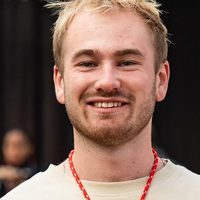
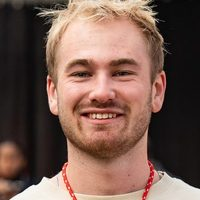
Fußballfeld: Julian und Malte laufen mit, Gesichter zentriert
Claude-Session: https://claude.ai/code/session_014cXxagMvA4XV5evzXXksD5

diff --git a/js/visuals.js b/js/visuals.js
@@ -1529,8 +1529,12 @@
 
     const lineX = w * 0.62;
     const defenders = [P(0.592, 0.2), P(0.62, 0.5), P(0.585, 0.8)];
-    const J = personal ? P(0.11, 0.62) : P(0.15, 0.66);   // Julian (bzw. Passgeber)
-    const M = P(0.35, 0.3);                                // Malte
+    // Laufwege: Julian und Malte laufen sich frei, spielen sich an und rücken
+    // nach dem Pass mit auf (0 = Start, 1 = beim Pass, 2 = danach)
+    const J0 = P(0.07, 0.72), J1 = P(0.13, 0.6), J2 = P(0.25, 0.55);
+    const M0 = P(0.26, 0.42), M1 = P(0.35, 0.3), M2 = P(0.47, 0.37);
+    const J = personal ? J1 : P(0.15, 0.66);   // Julian (bzw. Passgeber)
+    const M = M1;                              // Malte
     const passer = personal ? M : J;
     const A0 = P(0.74, 0.33);   // steht im Abseits
     const A1 = P(0.555, 0.36);  // zurück hinter der Linie
@@ -1660,8 +1664,12 @@
 
       // Spieler: Köpfe mit Namen, sonst ein Punkt
       if (personal) {
-        [J, M].forEach((pt, i) => {
-          const bob = Math.sin(t * 1.1 + i * 1.7) * 1.2;
+        const approach = easeInOut(clamp(u / 0.9, 0, 1));
+        const follow = easeInOut(clamp((u - passStart) / 1.6, 0, 1));
+        const walk = (a, b, c) => (follow > 0 ? [lerp(b[0], c[0], follow), lerp(b[1], c[1], follow)] : [lerp(a[0], b[0], approach), lerp(a[1], b[1], approach)]);
+        [walk(J0, J1, J2), walk(M0, M1, M2)].forEach((pt, i) => {
+          const moving = (approach > 0 && approach < 1) || (follow > 0 && follow < 1);
+          const bob = Math.sin(t * (moving ? 9 : 1.1) + i * 1.7) * (moving ? 2 : 1.2);
           roundPic(ctx, players[i], pt[0], pt[1] + bob, head, rgba(CREAM, 0.55));
           if (names[i]) {
             ctx.textAlign = 'center';

diff --git a/404.html b/404.html
@@ -29,7 +29,7 @@
   <meta property="og:site_name" content="onside.hq" />
   <meta name="twitter:card" content="summary_large_image" />
 
-  <link rel="stylesheet" href="/css/styles.css?v=11" />
+  <link rel="stylesheet" href="/css/styles.css?v=12" />
 
   <!-- Sicherheitsnetz: Texte blenden beim Scrollen ein. Sollte das Skript
        einmal nicht laden, zeigt diese Zeile nach 3 Sekunden trotzdem alles an. -->
@@ -152,8 +152,8 @@
        config.js  = die eine Stelle für eure Einstellungen (Formular-Key, Startbild-Fotos)
        visuals.js = alles, was gezeichnet und animiert wird
        script.js  = Bedienung: Einblenden, Menü, Laufband, Formular, Startbild, Regler -->
-  <script src="/js/config.js?v=11"></script>
-  <script src="/js/visuals.js?v=11"></script>
-  <script src="/js/script.js?v=11"></script>
+  <script src="/js/config.js?v=12"></script>
+  <script src="/js/visuals.js?v=12"></script>
+  <script src="/js/script.js?v=12"></script>
 </body>
 </html>

diff --git a/berlin-night-run.html b/berlin-night-run.html
@@ -29,7 +29,7 @@
   <meta property="og:site_name" content="onside.hq" />
   <meta name="twitter:card" content="summary_large_image" />
 
-  <link rel="stylesheet" href="css/styles.css?v=11" />
+  <link rel="stylesheet" href="css/styles.css?v=12" />
 
   <!-- Sicherheitsnetz: Texte blenden beim Scrollen ein. Sollte das Skript
        einmal nicht laden, zeigt diese Zeile nach 3 Sekunden trotzdem alles an. -->
@@ -388,8 +388,8 @@
        config.js  = die eine Stelle für eure Einstellungen (Formular-Key, Startbild-Fotos)
        visuals.js = alles, was gezeichnet und animiert wird
        script.js  = Bedienung: Einblenden, Menü, Laufband, Formular, Startbild, Regler -->
-  <script src="js/config.js?v=11"></script>
-  <script src="js/visuals.js?v=11"></script>
-  <script src="js/script.js?v=11"></script>
+  <script src="js/config.js?v=12"></script>
+  <script src="js/visuals.js?v=12"></script>
+  <script src="js/script.js?v=12"></script>
 </body>
 </html>

diff --git a/datenschutz.html b/datenschutz.html
@@ -29,7 +29,7 @@
   <meta property="og:site_name" content="onside.hq" />
   <meta name="twitter:card" content="summary_large_image" />
 
-  <link rel="stylesheet" href="css/styles.css?v=11" />
+  <link rel="stylesheet" href="css/styles.css?v=12" />
 
   <!-- Sicherheitsnetz: Texte blenden beim Scrollen ein. Sollte das Skript
        einmal nicht laden, zeigt diese Zeile nach 3 Sekunden trotzdem alles an. -->
@@ -258,8 +258,8 @@
        config.js  = die eine Stelle für eure Einstellungen (Formular-Key, Startbild-Fotos)
        visuals.js = alles, was gezeichnet und animiert wird
        script.js  = Bedienung: Einblenden, Menü, Laufband, Formular, Startbild, Regler -->
-  <script src="js/config.js?v=11"></script>
-  <script src="js/visuals.js?v=11"></script>
-  <script src="js/script.js?v=11"></script>
+  <script src="js/config.js?v=12"></script>
+  <script src="js/visuals.js?v=12"></script>
+  <script src="js/script.js?v=12"></script>
 </body>
 </html>

diff --git a/impressum.html b/impressum.html
@@ -29,7 +29,7 @@
   <meta property="og:site_name" content="onside.hq" />
   <meta name="twitter:card" content="summary_large_image" />
 
-  <link rel="stylesheet" href="css/styles.css?v=11" />
+  <link rel="stylesheet" href="css/styles.css?v=12" />
 
   <!-- Sicherheitsnetz: Texte blenden beim Scrollen ein. Sollte das Skript
        einmal nicht laden, zeigt diese Zeile nach 3 Sekunden trotzdem alles an. -->
@@ -208,8 +208,8 @@
        config.js  = die eine Stelle für eure Einstellungen (Formular-Key, Startbild-Fotos)
        visuals.js = alles, was gezeichnet und animiert wird
        script.js  = Bedienung: Einblenden, Menü, Laufband, Formular, Startbild, Regler -->
-  <script src="js/config.js?v=11"></script>
-  <script src="js/visuals.js?v=11"></script>
-  <script src="js/script.js?v=11"></script>
+  <script src="js/config.js?v=12"></script>
+  <script src="js/visuals.js?v=12"></script>
+  <script src="js/script.js?v=12"></script>
 </body>
 </html>

diff --git a/kontakt.html b/kontakt.html
@@ -29,7 +29,7 @@
   <meta property="og:site_name" content="onside.hq" />
   <meta name="twitter:card" content="summary_large_image" />
 
-  <link rel="stylesheet" href="css/styles.css?v=11" />
+  <link rel="stylesheet" href="css/styles.css?v=12" />
 
   <!-- Sicherheitsnetz: Texte blenden beim Scrollen ein. Sollte das Skript
        einmal nicht laden, zeigt diese Zeile nach 3 Sekunden trotzdem alles an. -->
@@ -230,8 +230,8 @@
        config.js  = die eine Stelle für eure Einstellungen (Formular-Key, Startbild-Fotos)
        visuals.js = alles, was gezeichnet und animiert wird
        script.js  = Bedienung: Einblenden, Menü, Laufband, Formular, Startbild, Regler -->
-  <script src="js/config.js?v=11"></script>
-  <script src="js/visuals.js?v=11"></script>
-  <script src="js/script.js?v=11"></script>
+  <script src="js/config.js?v=12"></script>
+  <script src="js/visuals.js?v=12"></script>
+  <script src="js/script.js?v=12"></script>
 </body>
 </html>

diff --git a/leistungen.html b/leistungen.html
@@ -29,7 +29,7 @@
   <meta property="og:site_name" content="onside.hq" />
   <meta name="twitter:card" content="summary_large_image" />
 
-  <link rel="stylesheet" href="css/styles.css?v=11" />
+  <link rel="stylesheet" href="css/styles.css?v=12" />
 
   <!-- Sicherheitsnetz: Texte blenden beim Scrollen ein. Sollte das Skript
        einmal nicht laden, zeigt diese Zeile nach 3 Sekunden trotzdem alles an. -->
@@ -285,8 +285,8 @@
        config.js  = die eine Stelle für eure Einstellungen (Formular-Key, Startbild-Fotos)
        visuals.js = alles, was gezeichnet und animiert wird
        script.js  = Bedienung: Einblenden, Menü, Laufband, Formular, Startbild, Regler -->
-  <script src="js/config.js?v=11"></script>
-  <script src="js/visuals.js?v=11"></script>
-  <script src="js/script.js?v=11"></script>
+  <script src="js/config.js?v=12"></script>
+  <script src="js/visuals.js?v=12"></script>
+  <script src="js/script.js?v=12"></script>
 </body>
 </html>

diff --git a/projekte.html b/projekte.html
@@ -29,7 +29,7 @@
   <meta property="og:site_name" content="onside.hq" />
   <meta name="twitter:card" content="summary_large_image" />
 
-  <link rel="stylesheet" href="css/styles.css?v=11" />
+  <link rel="stylesheet" href="css/styles.css?v=12" />
 
   <!-- Sicherheitsnetz: Texte blenden beim Scrollen ein. Sollte das Skript
        einmal nicht laden, zeigt diese Zeile nach 3 Sekunden trotzdem alles an. -->
@@ -209,8 +209,8 @@
        config.js  = die eine Stelle für eure Einstellungen (Formular-Key, Startbild-Fotos)
        visuals.js = alles, was gezeichnet und animiert wird
        script.js  = Bedienung: Einblenden, Menü, Laufband, Formular, Startbild, Regler -->
-  <script src="js/config.js?v=11"></script>
-  <script src="js/visuals.js?v=11"></script>
-  <script src="js/script.js?v=11"></script>
+  <script src="js/config.js?v=12"></script>
+  <script src="js/visuals.js?v=12"></script>
+  <script src="js/script.js?v=12"></script>
 </body>
 </html>

diff --git a/ueber-uns.html b/ueber-uns.html
@@ -29,7 +29,7 @@
   <meta property="og:site_name" content="onside.hq" />
   <meta name="twitter:card" content="summary_large_image" />
 
-  <link rel="stylesheet" href="css/styles.css?v=11" />
+  <link rel="stylesheet" href="css/styles.css?v=12" />
 
   <!-- Sicherheitsnetz: Texte blenden beim Scrollen ein. Sollte das Skript
        einmal nicht laden, zeigt diese Zeile nach 3 Sekunden trotzdem alles an. -->
@@ -263,8 +263,8 @@
        config.js  = die eine Stelle für eure Einstellungen (Formular-Key, Startbild-Fotos)
        visuals.js = alles, was gezeichnet und animiert wird
        script.js  = Bedienung: Einblenden, Menü, Laufband, Formular, Startbild, Regler -->
-  <script src="js/config.js?v=11"></script>
-  <script src="js/visuals.js?v=11"></script>
-  <script src="js/script.js?v=11"></script>
+  <script src="js/config.js?v=12"></script>
+  <script src="js/visuals.js?v=12"></script>
+  <script src="js/script.js?v=12"></script>
 </body>
 </html>

diff --git a/index.html b/index.html
@@ -138,7 +138,7 @@
   }
   </script>
 
-  <link rel="stylesheet" href="css/styles.css?v=11" />
+  <link rel="stylesheet" href="css/styles.css?v=12" />
 
   <!-- Sicherheitsnetz: Texte blenden beim Scrollen ein. Sollte das Skript
        einmal nicht laden, zeigt diese Zeile nach 3 Sekunden trotzdem alles an. -->
@@ -678,8 +678,8 @@
        config.js  = die eine Stelle für eure Einstellungen (Formular-Key, Startbild-Fotos)
        visuals.js = alles, was gezeichnet und animiert wird
        script.js  = Bedienung: Einblenden, Menü, Laufband, Formular, Startbild, Regler -->
-  <script src="js/config.js?v=11"></script>
-  <script src="js/visuals.js?v=11"></script>
-  <script src="js/script.js?v=11"></script>
+  <script src="js/config.js?v=12"></script>
+  <script src="js/visuals.js?v=12"></script>
+  <script src="js/script.js?v=12"></script>
 </body>
 </html>

diff --git a/dagen-yachtcharter.html b/dagen-yachtcharter.html
@@ -42,7 +42,7 @@
   }
   </script>
 
-  <link rel="stylesheet" href="css/styles.css?v=11" />
+  <link rel="stylesheet" href="css/styles.css?v=12" />
 
   <!-- Sicherheitsnetz: Texte blenden beim Scrollen ein. Sollte das Skript
        einmal nicht laden, zeigt diese Zeile nach 3 Sekunden trotzdem alles an. -->
@@ -375,8 +375,8 @@
        config.js  = die eine Stelle für eure Einstellungen (Formular-Key, Startbild-Fotos)
        visuals.js = alles, was gezeichnet und animiert wird
        script.js  = Bedienung: Einblenden, Menü, Laufband, Formular, Startbild, Regler -->
-  <script src="js/config.js?v=11"></script>
-  <script src="js/visuals.js?v=11"></script>
-  <script src="js/script.js?v=11"></script>
+  <script src="js/config.js?v=12"></script>
+  <script src="js/visuals.js?v=12"></script>
+  <script src="js/script.js?v=12"></script>
 </body>
 </html>
